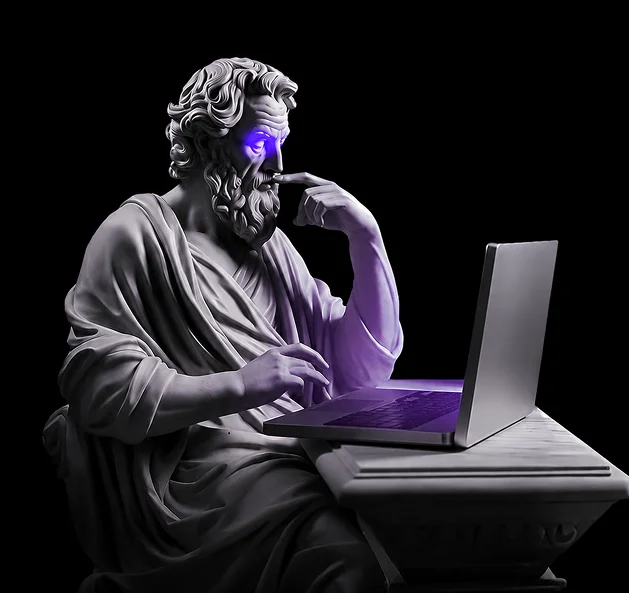
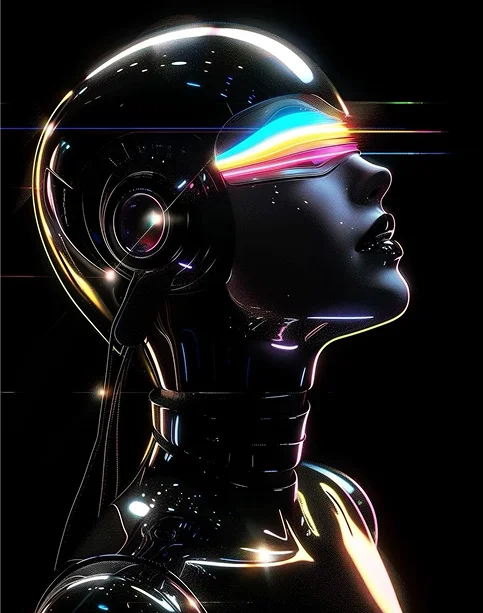
feat: implement Design & Branding and IT & Technical Support pages with shared components and scroll-to-top functionality

diff --git a/ZYLOGENIX/src/pages/Home.jsx b/ZYLOGENIX/src/pages/Home.jsx
@@ -1,6 +1,6 @@
 import React, { useState, useEffect, useRef } from 'react';
 import { Box, Typography, Button } from '@mui/material';
-import { motion, AnimatePresence } from 'framer-motion';
+import { motion, AnimatePresence, useMotionValue, useTransform, useSpring } from 'framer-motion';
 import ArrowForwardIcon from '@mui/icons-material/ArrowForward';
 import HomeHero from '../assets/home/Homehero.webp';
 import WhyZylogenixImg from '../assets/home/WHY ZYLOGENIX.webp';
@@ -96,6 +96,23 @@ const slidesData = [
 
 const Home = () => {
   const [activeSlide, setActiveSlide] = useState(0);
+
+  const mouseX = useMotionValue(0);
+  const mouseY = useMotionValue(0);
+  const springConfig = { damping: 25, stiffness: 150 };
+  const smoothX = useSpring(mouseX, springConfig);
+  const smoothY = useSpring(mouseY, springConfig);
+  const imageX = useTransform(smoothX, [-0.5, 0.5], [-25, 25]);
+  const imageY = useTransform(smoothY, [-0.5, 0.5], [-25, 25]);
+
+  const handleWhyZylogenixMouseMove = (e) => {
+    const { currentTarget, clientX, clientY } = e;
+    const { left, top, width, height } = currentTarget.getBoundingClientRect();
+    const x = (clientX - left) / width - 0.5;
+    const y = (clientY - top) / height - 0.5;
+    mouseX.set(x);
+    mouseY.set(y);
+  };
   const [[activeServiceSlide, serviceDirection], setServiceSlideState] = useState([0, 0]);
   const swipeConfidenceThreshold = 5000;
   const swipePower = (offset, velocity) => {
@@ -105,6 +122,10 @@ const Home = () => {
   const sliderRef = useRef(null);
   const activeSlideRef = useRef(activeSlide);
   const isScrolling = useRef(false);
+
+  const servicesRef = useRef(null);
+  const activeServiceSlideRef = useRef(activeServiceSlide);
+  const isServicesScrolling = useRef(false);
 
   const paginateService = (newDirection) => {
     setServiceSlideState((prev) => {
@@ -123,28 +144,53 @@ const Home = () => {
   };
 
   useEffect(() => {
-    const timer = setInterval(() => {
-      paginateService(1);
-    }, 12000);
-    return () => clearInterval(timer);
+    activeServiceSlideRef.current = activeServiceSlide;
   }, [activeServiceSlide]);
+
+  useEffect(() => {
+    const servicesSlider = servicesRef.current;
+    if (!servicesSlider) return;
+
+    const handleServicesWheel = (e) => {
+      if (isServicesScrolling.current) {
+        e.preventDefault();
+        return;
+      }
+
+      if (e.deltaY > 0) {
+        if (activeServiceSlideRef.current < servicesData.length - 1) {
+          e.preventDefault();
+          isServicesScrolling.current = true;
+          paginateService(1);
+          setTimeout(() => { isServicesScrolling.current = false; }, 800);
+        }
+      } else if (e.deltaY < 0) {
+        if (activeServiceSlideRef.current > 0) {
+          e.preventDefault();
+          isServicesScrolling.current = true;
+          paginateService(-1);
+          setTimeout(() => { isServicesScrolling.current = false; }, 800);
+        }
+      }
+    };
+
+    servicesSlider.addEventListener('wheel', handleServicesWheel, { passive: false });
+    return () => servicesSlider.removeEventListener('wheel', handleServicesWheel);
+  }, []);
 
   const serviceVariants = {
     enter: (direction) => {
       return {
-        x: direction > 0 ? 50 : -50,
         opacity: 0
       };
     },
     center: {
       zIndex: 1,
-      x: 0,
       opacity: 1
     },
     exit: (direction) => {
       return {
         zIndex: 0,
-        x: direction < 0 ? 50 : -50,
         opacity: 0
       };
     }
@@ -425,11 +471,14 @@ const Home = () => {
       </Box>
 
       <Box
+        onMouseMove={handleWhyZylogenixMouseMove}
+        onMouseLeave={() => { mouseX.set(0); mouseY.set(0); }}
         sx={{
           width: '100%',
+          
           maxWidth: '1440px',
           margin: '0 auto',
-          height: { xs: 'auto', md: '639px' },
+          height: { xs: 'auto', md: '500px' },
           backgroundColor: 'rgba(26, 12, 47, 1)',
           position: 'relative',
           overflow: 'hidden',
@@ -457,23 +506,31 @@ const Home = () => {
         />
 
         <Box
-          component="img"
-          src={WhyZylogenixImg}
-          alt="Why Zylogenix"
+          component={motion.div}
+          style={{ x: imageX, y: imageY }}
           sx={{
-            width: { xs: '100%', sm: '400px', md: '45%', lg: '500px' },
-            height: { xs: 'auto', md: '550px' },
-            objectFit: 'contain',
-            objectPosition: 'bottom center',
-            alignSelf: { xs: 'center', md: 'flex-end' },
             zIndex: 1,
-            transform: { 
-              xs: 'scale(1.1) translateY(30px)', 
-              md: 'scale(1.25) translateY(110px)' 
-            }, 
-            transformOrigin: 'bottom center',
+            alignSelf: { xs: 'center', md: 'flex-end' },
+            display: 'flex',
           }}
-        />
+        >
+          <Box
+            component="img"
+            src={WhyZylogenixImg}
+            alt="Why Zylogenix"
+            sx={{
+              width: { xs: '100%', sm: '400px', md: '45%', lg: '500px' },
+              height: { xs: 'auto', md: '450px' },
+              objectFit: 'contain',
+              objectPosition: 'bottom center',
+              transform: { 
+                xs: 'scale(1.1) translateY(30px)', 
+                md: 'scale(1.15) translateY(40px)' 
+              }, 
+              transformOrigin: 'bottom center',
+            }}
+          />
+        </Box>
 
         <Box
           sx={{
@@ -644,9 +701,10 @@ const Home = () => {
       </Box>
       {/* Services Cards Section */}
       <Box
+        ref={servicesRef}
         sx={{
           width: '100%',
-          minHeight: { xs: 'auto', md: '1115px' },
+          minHeight: 'auto',
           backgroundColor: '#000000',
           padding: { xs: '60px 20px', md: '100px 0' },
           display: 'flex',
@@ -697,23 +755,10 @@ const Home = () => {
             animate="center"
             exit="exit"
             transition={{
-              x: { type: "tween", duration: 0.6, ease: "easeInOut" },
-              opacity: { duration: 0.8, ease: "easeInOut" }
+              x: { type: "tween", duration: 1.2, ease: "easeOut" },
+              opacity: { duration: 1.0, ease: "easeInOut" }
             }}
-            style={{ width: '100%', cursor: 'grab', touchAction: 'pan-y' }}
-            drag="x"
-            dragConstraints={{ left: 0, right: 0 }}
-            dragElastic={1}
-            onDragEnd={(e, { offset, velocity }) => {
-              const swipe = swipePower(offset.x, velocity.x);
-
-              if (swipe < -swipeConfidenceThreshold) {
-                paginateService(1);
-              } else if (swipe > swipeConfidenceThreshold) {
-                paginateService(-1);
-              }
-            }}
-            whileTap={{ cursor: "grabbing" }}
+            style={{ width: '100%' }}
           >
             <Box sx={{ display: 'flex', flexDirection: 'column', gap: { xs: '20px', md: '28px' }, width: '100%', alignItems: 'center' }}>
               {servicesData[activeServiceSlide].map((service, index) => (

diff --git a/ZYLOGENIX/src/components/common/servicescard.jsx b/ZYLOGENIX/src/components/common/servicescard.jsx
@@ -1,6 +1,7 @@
 import React from 'react';
 import { Box, Typography } from '@mui/material';
 import ArrowForwardIcon from '@mui/icons-material/ArrowForward';
+import { motion } from 'framer-motion';
 
 // Icons
 import HumanIcon from '../../assets/icon/human.webp';
@@ -9,6 +10,18 @@ import BellIcon from '../../assets/icon/bell.webp';
 import PaperPlaneIcon from '../../assets/icon/paperPlane.webp';
 
 const ServicesCard = ({ title, description, imageSrc, reverse, bgGradient }) => {
+  const leftVariants = {
+    enter: { x: -250, opacity: 0 },
+    center: { x: 0, opacity: 1 },
+    exit: { x: -250, opacity: 0 }
+  };
+
+  const rightVariants = {
+    enter: { x: 250, opacity: 0 },
+    center: { x: 0, opacity: 1 },
+    exit: { x: 250, opacity: 0 }
+  };
+
   return (
     <Box
       sx={{
@@ -19,18 +32,22 @@ const ServicesCard = ({ title, description, imageSrc, reverse, bgGradient }) => 
         },
         gap: '20px',
         width: '100%',
-        maxWidth: '940px', 
+        height:"250px",
+        maxWidth: '1150px', 
         margin: '0 auto',
       }}
     >
       {/* Text Box */}
       <Box
+        component={motion.div}
+        variants={reverse ? rightVariants : leftVariants}
+        transition={{ type: "tween", duration: 1.2, ease: "easeOut" }}
         sx={{
-          flex: { xs: '1 1 auto', md: '0 0 618px' },
-          minHeight: '378px',
+          flex: { xs: '1 1 auto', md: '1 1 70%' },
+          minHeight: '250px',
           background: bgGradient || 'linear-gradient(113.49deg, #8D53DB 5.01%, #4B2C75 79.43%)',
           borderRadius: '20px',
-          padding: { xs: '30px 20px', md: '50px 45px' }, 
+          padding: { xs: '20px', md: '30px 40px' }, 
           display: 'flex',
           flexDirection: 'column',
           boxSizing: 'border-box',
@@ -41,11 +58,11 @@ const ServicesCard = ({ title, description, imageSrc, reverse, bgGradient }) => 
           sx={{
             fontFamily: 'Poppins',
             fontWeight: 700,
-            fontSize: { xs: '26px', md: '34.04px' },
-            lineHeight: { xs: '34px', md: '43.12px' },
+            fontSize: { xs: '22px', md: '26px' },
+            lineHeight: { xs: '30px', md: '34px' },
             textTransform: 'capitalize',
             color: 'rgba(255, 255, 255, 1)',
-            mb: '20px',
+            mb: '15px',
             textAlign: { xs: 'center', md: 'left' }
           }}
         >
@@ -56,8 +73,8 @@ const ServicesCard = ({ title, description, imageSrc, reverse, bgGradient }) => 
           sx={{
             fontFamily: 'Poppins',
             fontWeight: 400,
-            fontSize: '16px',
-            lineHeight: '25px',
+            fontSize: '14px',
+            lineHeight: '22px',
             textTransform: 'capitalize',
             textAlign: { xs: 'center', md: 'justify' },
             color: 'rgba(255, 255, 255, 1)',
@@ -75,7 +92,9 @@ const ServicesCard = ({ title, description, imageSrc, reverse, bgGradient }) => 
             justifyContent: { xs: 'center', md: 'space-between' },
             alignItems: 'center',
             gap: { xs: '20px', md: '0px' },
-            mt: '30px'
+            mt: '20px',
+            pt: '15px',
+            borderTop: '1px solid rgba(255,255,255,0.2)'
           }}
         >
           {/* Icons Group */}
@@ -116,8 +135,11 @@ const ServicesCard = ({ title, description, imageSrc, reverse, bgGradient }) => 
 
       {/* Image Wrapper */}
       <Box
+        component={motion.div}
+        variants={reverse ? leftVariants : rightVariants}
+        transition={{ type: "tween", duration: 1.2, ease: "easeOut" }}
         sx={{
-          flex: { xs: '1 1 auto', md: '0 0 300px' },
+          flex: { xs: '1 1 auto', md: '0 0 350px' },
           display: 'flex',
           alignItems: 'stretch',
           width: '100%'
@@ -130,7 +152,7 @@ const ServicesCard = ({ title, description, imageSrc, reverse, bgGradient }) => 
           sx={{
             width: '100%',
             height: '100%',
-            minHeight: { xs: '200px', md: '378px' },
+            minHeight: { xs: '200px', md: '250px' },
             objectFit: 'cover',
             borderRadius: '20px',
             boxSizing: 'border-box'

diff --git a/ZYLOGENIX/src/pages/IT&TechnicalSupport.jsx b/ZYLOGENIX/src/pages/IT&TechnicalSupport.jsx
@@ -170,6 +170,7 @@ const ITTechnicalSupport = () => {
         <FeatureCard 
           image={Img5}
           objectFitOverride="contain"
+
           badgeText="Virtual Tech Support"
           title={"Lorem Lipsum Solor\nLorem Lipsms"}
           description1="Lorem ipsum dolor sit amet consectetur. Ipsum vel dolor ut euLorem ipsum dolor sit amet consectetur. Ipsum vel dolor ut euLorem ipsum dolor sit amet consectetur. Ipsum vel dolor ut euLorem ipsum dolor sit amet consectetur. Ipsum vel dolor ut euLorem ipsum dolor sit amet consectetur. Ipsum vel dolor ut eu"
@@ -182,6 +183,7 @@ const ITTechnicalSupport = () => {
         <FeatureCard 
           className="white-section"
           image={Img6}
+          imageScale={0.8}
           badgeText="WhatsApp Business Integration"
           title={"Lorem Lipsum Solor\nLorem Lipsms"}
           description1="Lorem ipsum dolor sit amet consectetur. Ipsum vel dolor ut euLorem ipsum dolor sit amet consectetur. Ipsum vel dolor ut euLorem ipsum dolor sit amet consectetur. Ipsum vel dolor ut euLorem ipsum dolor sit amet consectetur. Ipsum vel dolor ut euLorem ipsum dolor sit amet consectetur. Ipsum vel dolor ut eu"

diff --git a/ZYLOGENIX/src/pages/Design&Branding.jsx b/ZYLOGENIX/src/pages/Design&Branding.jsx
@@ -106,6 +106,8 @@ const DesignBranding = () => {
           description1="Lorem ipsum dolor sit amet consectetur. Ipsum vel dolor ut euLorem ipsum dolor sit amet consectetur. Ipsum vel dolor ut euLorem ipsum dolor sit amet consectetur. Ipsum vel dolor ut euLorem ipsum dolor sit amet consectetur. Ipsum vel dolor ut euLorem ipsum dolor sit amet consectetur. Ipsum vel dolor ut eu"
           description2="Lorem ipsum dolor sit amet consectetur. Ipsum vel dolor ut euLorem ipsum dolor sit amet consectetur."
           bgColor="rgba(0, 0, 0, 1)"
+          objectFitOverride='contain'
+          imageScale={0.8}
           imagePosition="left"
         />
 
@@ -119,6 +121,7 @@ const DesignBranding = () => {
           description2="Lorem ipsum dolor sit amet consectetur. Ipsum vel dolor ut euLorem ipsum dolor sit amet consectetur."
           bgColor="#FFFFFF"
           textColor="#000000"
+          imageScale={0.8}
           imagePosition="right"
         />
 

diff --git a/ZYLOGENIX/src/App.jsx b/ZYLOGENIX/src/App.jsx
@@ -1,6 +1,7 @@
 import React from 'react';
 import { BrowserRouter as Router, Routes, Route } from 'react-router-dom';
 import Navbar from './components/navbar/navbar';
+import ScrollToTop from './components/common/ScrollToTop';
 import Home from './pages/Home';
 import About from './pages/About';
 import Capabilities from './pages/Capabilities';
@@ -16,6 +17,7 @@ import './App.css';
 function App() {
   return (
     <Router>
+      <ScrollToTop />
       <Navbar />
       <Routes>
         <Route path="/" element={<Home />} />

diff --git a/ZYLOGENIX/src/components/common/featureCard.jsx b/ZYLOGENIX/src/components/common/featureCard.jsx
@@ -52,8 +52,8 @@ const FeatureCard = ({
           alignItems: 'stretch',
           zIndex: 1,
           px: { xs: '20px', sm: '0px', md: '0px' },
-          //mt:{ lg: bgColor === '#FFFFFF' ? 1 : 0 },
-          //mb: disableBottomMargin ? 0 : { lg: bgColor === '#FFFFFF' ? -8 : 0 },
+          mt:{ lg: bgColor === '#FFFFFF' ? 6 : 0, },
+          mb: disableBottomMargin ? 0 : { lg: bgColor === '#FFFFFF' ? -8 : -1,md:bgColor === '#FFFFFF' ? -8 : 0,xs:bgColor === '#FFFFFF' ? -8 : 0, },
         }}
       >
         <motion.div

diff --git a/ZYLOGENIX/src/components/common/ScrollToTop.jsx b/ZYLOGENIX/src/components/common/ScrollToTop.jsx
@@ -1,0 +1,14 @@
+import { useEffect } from 'react';
+import { useLocation } from 'react-router-dom';
+
+const ScrollToTop = () => {
+  const { pathname } = useLocation();
+
+  useEffect(() => {
+    window.scrollTo(0, 0);
+  }, [pathname]);
+
+  return null;
+};
+
+export default ScrollToTop;
